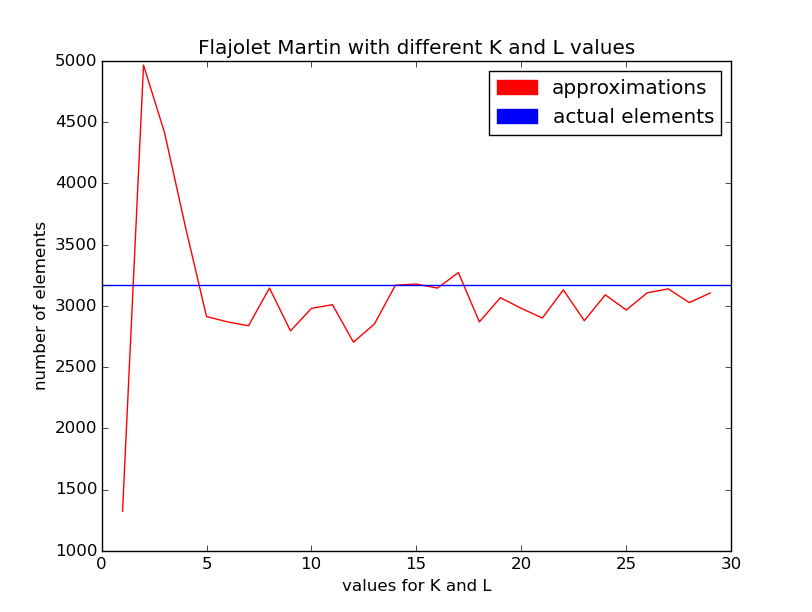
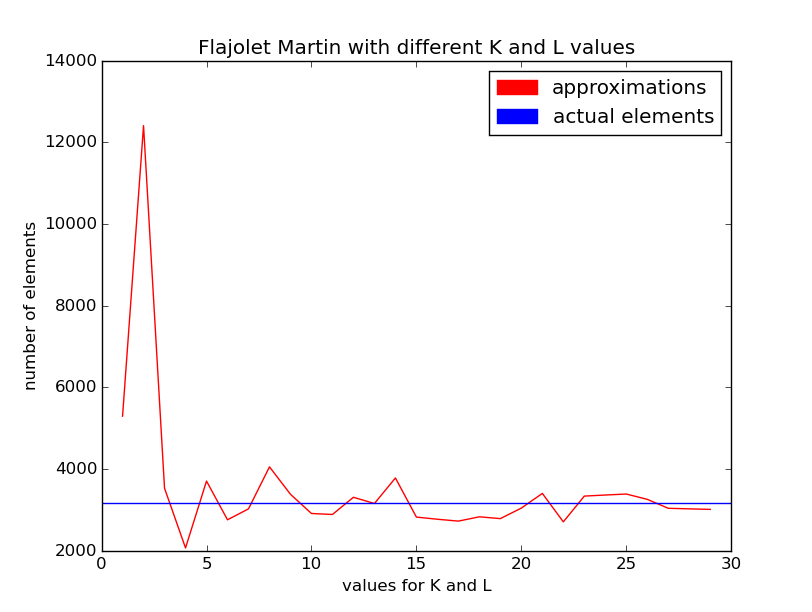
lesson 7 exercises added for assignment 2

diff --git a/Assignment 2/assignment_2.tex b/Assignment 2/assignment_2.tex
@@ -826,9 +826,16 @@ From the output we can see that using a bloom filter takes 5.115 seconds to add 
 \pythonexternal{"../Lesson 7/flajolet_martin.py"}
 \textbf{Output}
 \begin{pythonOutput}
-Output
+K and L levels approximates: [(1, 5295.342012385101), (2, 12410.95784152758), (3, 3530.228008256734), (4, 2068.49297358793), (5, 3706.7394086695704), (6, 2757.9906314505733), (7, 3025.9097213629148), (8, 4054.246228232343), (9, 3383.1351745793704), (10, 2912.4381068118055), (11, 2888.368370391873), (12, 3309.5887577406884), (13, 3156.8385073834256), (14, 3782.3871517036437), (15, 2824.1824066053873), (16, 2771.7805846078263), (17, 2725.5436828452725), (18, 2831.5370482892554), (19, 2787.0221117816322), (20, 3044.8216571214334), (21, 3404.1484365332794), (22, 2707.845347242381), (23, 3338.3677904166943), (24, 3364.7485703697), (25, 3389.0188879264647), (26, 3258.6720076216006), (27, 3039.9185626655208), (28, 3025.9097213629148), (29, 3012.8670070466956)] with an actual number of words being: 3171
 \end{pythonOutput}
 \textbf{Explanation of code and discussion}\\
-Bla bla bla
+We found the actual number of unique words to be 3171. We have tried to investigate how different levels of K and L affect the accuracy of the approximations. We have used symmetric levels of K and L as computations else would take too long. We have plotted the approximations for different levels of K and L and the actual number of elements in Figure \ref{fig:flajolet_martin_plot}.\\
+By looking at the plot we can see a huge outlier in the beginning but the approximations stabilize somewhat with levels of 5 or higher, and 13 seems to be the best with an approximation of around 3156.
+\begin{figure}[!ht]
+\centering
+\includegraphics[scale=0.5]{"../Lesson 7/flajolet_martin_k_levels"}
+\caption{Flajolet-Martin approximations with different K and L levels}
+\label{fig:flajolet_martin_plot}
+\end{figure}
 
 \end{document}

diff --git a/Lesson 7/flajolet_martin.py b/Lesson 7/flajolet_martin.py
@@ -6,6 +6,7 @@ import re
 import statistics
 import matplotlib.pyplot as plt
 import matplotlib.patches as mpatches
+import random
 
 class FlajoletMartinCounter():
     """
@@ -59,7 +60,7 @@ if __name__ == '__main__':
         L = x
         counter_list = []
         for i in range(K*L):
-            counter_list.append(FlajoletMartinCounter(seed=i))
+            counter_list.append(FlajoletMartinCounter(seed=random.randint(-214783648, 2147483647)))
 
         for word in shakespeare_words:
             for counter in counter_list:
@@ -83,4 +84,7 @@ if __name__ == '__main__':
     plt.axhline(y=actual_number_of_words, color="blue")
     plt.legend()
     plt.show()
-    print("K and L level of 5 approximates: {} with an actual number of words being: {}".format(plot_list[4],actual_number_of_words))
+    print("actual number of unique words in shakespeare text: {}".format(actual_number_of_words))
+    for result in plot_list:
+        print("")
+    print("K and L levels approximates: {} with an actual number of words being: {}".format(plot_list,actual_number_of_words))
